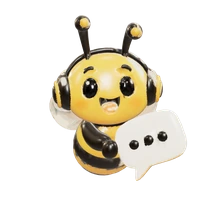
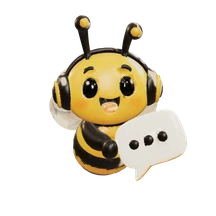
Buzz bee: remove the white blotches and shaded patches (softer clearcoat, less environment reflection, calmer exposure); stills rebuilt

diff --git a/buzz-bee3d.js b/buzz-bee3d.js
@@ -21,10 +21,10 @@ const CLAY_TEXTURE = '/buzz-bee-clay.webp?v=3';       // the original model's co
 export const BEE_LOOK = {
   render: {
     toneMapping: 'ACESFilmic',              // 'ACESFilmic' | 'AgX' | 'Neutral' | 'None'
-    exposure: 1.04,                         // ACES darkens and shifts colour a little: this, the light, and each material's mapGlow keep the bee's colours as they were
+    exposure: 0.98,                         // ACES darkens and shifts colour a little: this, the light, and each material's mapGlow keep the bee's colours as they were
     environment: 'studio',                  // the soft studio room that ships with three.js (RoomEnvironment), blurred like a studio HDRI
     environmentBlur: 0.04,
-    environmentIntensity: 0.5,
+    environmentIntensity: 0.3,
     anisotropy: 'max',                      // 'max' or a number: keeps the texture sharp when the bee turns
     keyLight: {color: 0xfff1d6, intensity: 1.0, position: [1.6, 2.4, 2.6]},
     rimLight: {color: 0xffe3a8, intensity: 0.45, position: [-2.2, 1.2, -2]},
@@ -34,12 +34,12 @@ export const BEE_LOOK = {
   fallback: {roughness: 0.78, clearcoat: 0, sheen: 0.6, transmission: 0},     // the matte clay look used only if bee_hq.glb cannot load and the original model is shown
   materials: {
     body: {                                  // head, headphones, body, arms, stripes, antennae
-      roughness: 0.35, metalness: 0, clearcoat: 1, clearcoatRoughness: 0.22,
-      sheen: 0.12, sheenRoughness: 0.5, sheenColor: 0xffc23a, envMapIntensity: 1.0, mapGlow: 0.3,
+      roughness: 0.35, metalness: 0, clearcoat: 1, clearcoatRoughness: 0.45,
+      sheen: 0.12, sheenRoughness: 0.5, sheenColor: 0xffc23a, envMapIntensity: 0.6, mapGlow: 0.3,
     },
     eyes: {                                  // glossy black with crisp white highlights
       roughness: 0.12, metalness: 0, clearcoat: 1, clearcoatRoughness: 0.03,
-      specularIntensity: 1, envMapIntensity: 1.6, mapGlow: 0,
+      specularIntensity: 1, envMapIntensity: 1.2, mapGlow: 0,
     },
     wings: {                                 // see-through, a little thick, glassy
       roughness: 0.22, metalness: 0, clearcoat: 0.6, clearcoatRoughness: 0.15,

diff --git a/buzz-chat.js b/buzz-chat.js
@@ -236,8 +236,8 @@
 
   const root = el('div', {className: 'buzz-root'});
   // The still bee pictures (idle, wave, typing): one transparent picture per pose, each made at 108, 216 and 324 px (1x, 2x, 3x), all the same canvas.
-  const picture = (kind, className, size) => el('img', {className, alt: '', width: size, height: size, decoding: 'async', src: `/buzz-bee-${kind}-1x.webp?v=4`,
-    srcset: `/buzz-bee-${kind}-1x.webp?v=4 1x, /buzz-bee-${kind}-2x.webp?v=4 2x, /buzz-bee-${kind}-3x.webp?v=4 3x`});
+  const picture = (kind, className, size) => el('img', {className, alt: '', width: size, height: size, decoding: 'async', src: `/buzz-bee-${kind}-1x.webp?v=5`,
+    srcset: `/buzz-bee-${kind}-1x.webp?v=5 1x, /buzz-bee-${kind}-2x.webp?v=5 2x, /buzz-bee-${kind}-3x.webp?v=5 3x`});
   const canvas = el('canvas', {className: 'buzz-canvas', 'aria-hidden': 'true'});
   const fab = el('button', {type: 'button', className: 'buzz-fab', 'aria-label': 'Chat with Buzz, PrintBee support', 'aria-haspopup': 'dialog', 'aria-expanded': 'false',
     'aria-describedby': 'buzz-tip'},
@@ -515,7 +515,7 @@
     const link = navigator.connection;
     if (link && (link.saveData || /(^|-)2g$/.test(link.effectiveType || ''))) { fab.dataset.state = 'fallback'; introTip(); return; }
     const giveUp = setTimeout(() => { if (fab.dataset.state === 'loading') { fab.dataset.state = 'fallback'; introTip(); } }, 7000);
-    import('/buzz-bee3d.js?v=13')
+    import('/buzz-bee3d.js?v=14')
       .then(module => module.createBee(canvas, {reducedMotion: REDUCED, scale: 0.86, onFrame: lift => fab.style.setProperty('--lift', lift.toFixed(3))}))
       .then(created => {
         clearTimeout(giveUp);

diff --git a/navigation.html b/navigation.html
@@ -19,7 +19,7 @@ if (window.parent === window && matchMedia('(min-width: 701px)').matches) {
 <link rel="stylesheet" href="/hive-theme.css?v=soft-focus">
 <link rel="stylesheet" href="/customer-theme.css?v=how-dark">
 <script src="/hive-theme.js?v=sun-moon"></script>
-<script src="/buzz-chat.js?v=17" defer></script>
+<script src="/buzz-chat.js?v=18" defer></script>
 </head>
 <body class="nav-app customer-theme">
 <main id="tab-screens" class="tab-screens"></main>

diff --git a/orders.html b/orders.html
@@ -23,7 +23,7 @@
 <link rel="stylesheet" href="/customer-theme.css?v=orders-clay">
 <script src="/hive-theme.js?v=sun-moon"></script>
 <script src="/support-bell.js?v=2" defer></script>
-<script src="/buzz-chat.js?v=17" defer></script>
+<script src="/buzz-chat.js?v=18" defer></script>
 </head>
 <body class="customer-theme">
 <a href="#main" class="skip">Skip to content</a>

diff --git a/terms.html b/terms.html
@@ -11,7 +11,7 @@
 <link rel="stylesheet" href="/customer-theme.css?v=how-dark-3">
 <script src="/hive-theme.js?v=sun-moon"></script>
 <script src="/support-bell.js?v=2" defer></script>
-<script src="/buzz-chat.js?v=17" defer></script>
+<script src="/buzz-chat.js?v=18" defer></script>
 </head>
 <body class="customer-theme">
 <a href="#main" class="skip">Skip to content</a>

diff --git a/address.html b/address.html
@@ -21,7 +21,7 @@
 <link rel="stylesheet" href="/customer-theme.css?v=how-dark">
 <script src="/hive-theme.js?v=sun-moon"></script>
 <script src="/support-bell.js?v=2" defer></script>
-<script src="/buzz-chat.js?v=17" defer></script>
+<script src="/buzz-chat.js?v=18" defer></script>
 </head>
 <body class="customer-theme">
 <a href="#main" class="skip">Skip to content</a>

diff --git a/cart.html b/cart.html
@@ -24,7 +24,7 @@
 <link rel="stylesheet" href="/customer-theme.css?v=how-dark">
 <script src="/hive-theme.js?v=sun-moon"></script>
 <script src="/support-bell.js?v=2" defer></script>
-<script src="/buzz-chat.js?v=17" defer></script>
+<script src="/buzz-chat.js?v=18" defer></script>
 </head>
 <body class="customer-theme">
 <a href="#main" class="skip">Skip to content</a>

diff --git a/index.html b/index.html
@@ -20,7 +20,7 @@
 <link rel="stylesheet" href="/customer-theme.css?v=how-dark">
 <script src="/hive-theme.js?v=sun-moon"></script>
 <script src="/support-bell.js?v=2" defer></script>
-<script src="/buzz-chat.js?v=17" defer></script>
+<script src="/buzz-chat.js?v=18" defer></script>
 </head>
 <body class="customer-theme">
 <a href="#main" class="skip">Skip to content</a>

diff --git a/pricing.html b/pricing.html
@@ -20,7 +20,7 @@
 <link rel="stylesheet" href="/customer-theme.css?v=how-dark">
 <script src="/hive-theme.js?v=sun-moon"></script>
 <script src="/support-bell.js?v=2" defer></script>
-<script src="/buzz-chat.js?v=17" defer></script>
+<script src="/buzz-chat.js?v=18" defer></script>
 </head>
 <body class="customer-theme">
 <a href="#main" class="skip">Skip to content</a>

diff --git a/profile.html b/profile.html
@@ -21,7 +21,7 @@
 <link rel="stylesheet" href="/customer-theme.css?v=how-dark">
 <script src="/hive-theme.js?v=sun-moon"></script>
 <script src="/support-bell.js?v=2" defer></script>
-<script src="/buzz-chat.js?v=17" defer></script>
+<script src="/buzz-chat.js?v=18" defer></script>
 </head>
 <body class="customer-theme">
 <a href="#main" class="skip">Skip to content</a>

diff --git a/queue.html b/queue.html
@@ -24,7 +24,7 @@
 <link rel="stylesheet" href="/customer-theme.css?v=how-dark">
 <script src="/hive-theme.js?v=sun-moon"></script>
 <script src="/support-bell.js?v=2" defer></script>
-<script src="/buzz-chat.js?v=17" defer></script>
+<script src="/buzz-chat.js?v=18" defer></script>
 </head>
 <body class="customer-theme">
 <a href="#main" class="skip">Skip to content</a>

diff --git a/help.html b/help.html
@@ -18,7 +18,7 @@
 <script src="/hive-theme.js?v=sun-moon"></script>
 <script src="/help.js?v=2" defer></script>
 <script src="/support-bell.js?v=2" defer></script>
-<script src="/buzz-chat.js?v=17" defer></script>
+<script src="/buzz-chat.js?v=18" defer></script>
 </head>
 <body class="customer-theme help-body">
 <a href="#help-app" class="skip">Skip to content</a>
